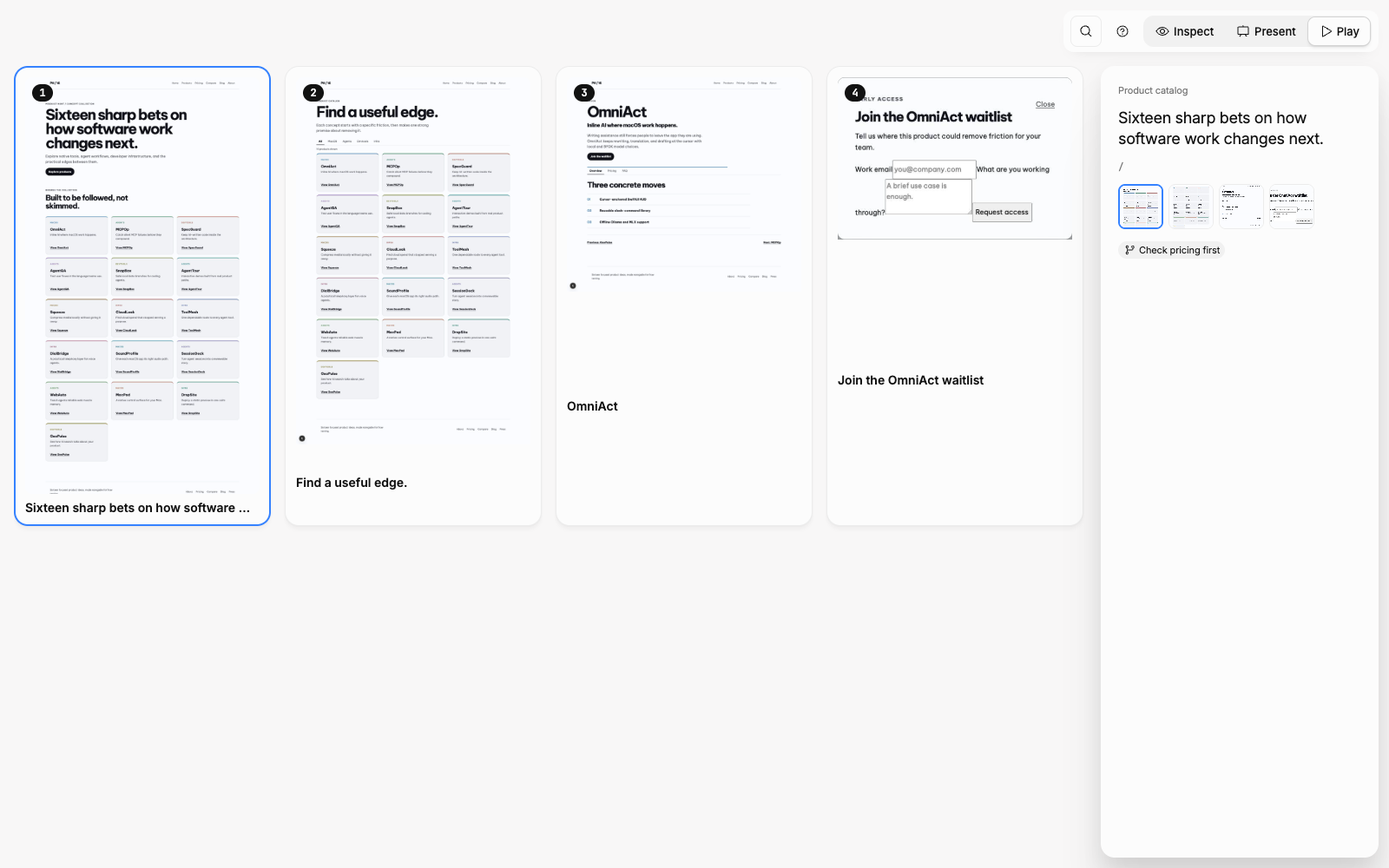
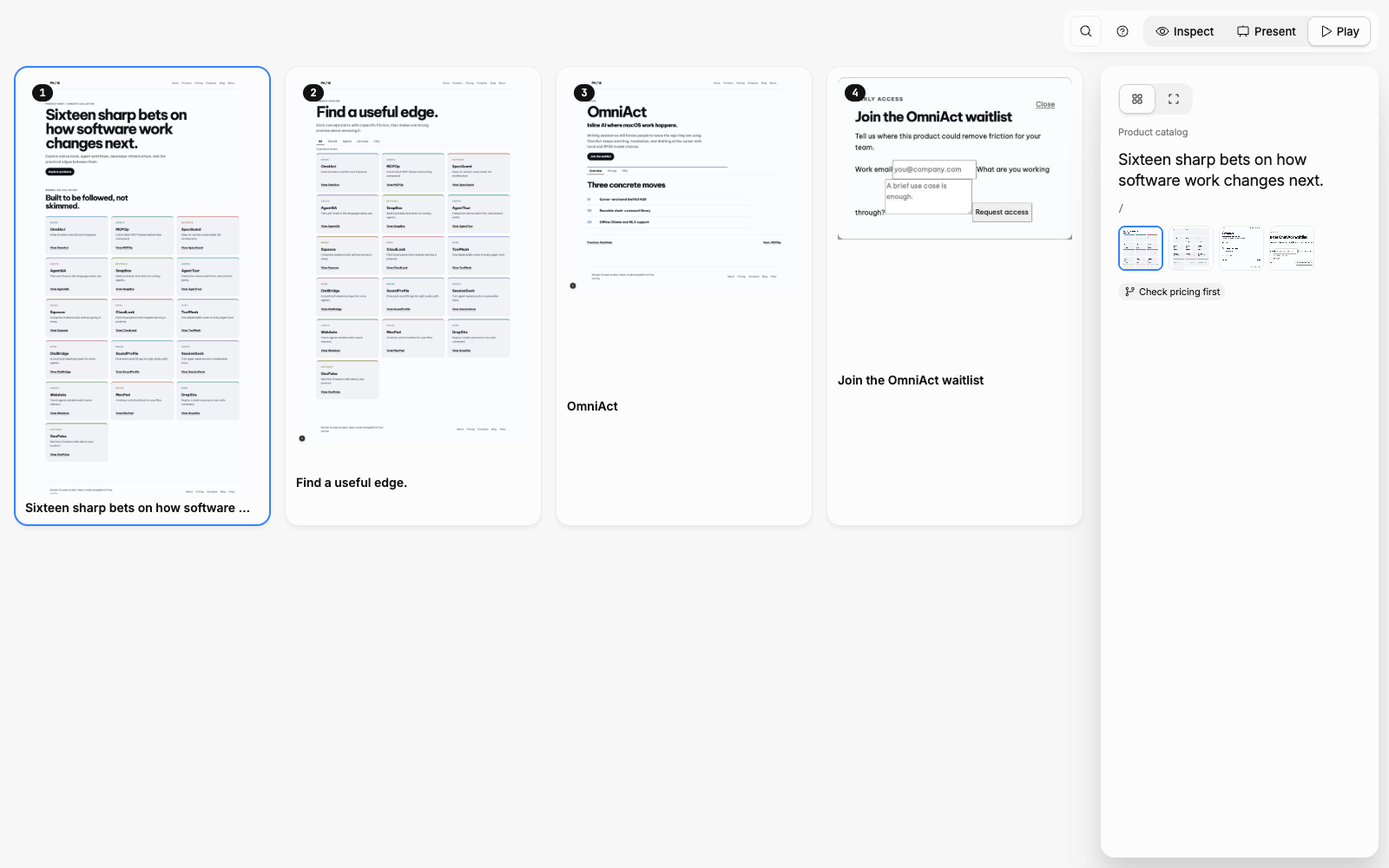
feat(viewer): Play grid and focus views, readable edge labels, Present breadcrumb
Play now has a grid of every step and a focus view (one step, prev/next
arrows, step chip, evidence panel); a click on a grid card opens focus, the
hash carries `/focus`, Escape returns to the grid. Edge pills measure their
label width, truncate with an ellipsis and step aside when they would
overlap. The breadcrumb sits at the left edge in Present and Play. Docs and
screenshots updated; version 0.3.1.

Changed region(s): [[0.8125, 0.093, 0.9375, 0.248], [0.8125, 0.248, 0.875, 0.341]]

diff --git a/test/viewer-present-browser.test.ts b/test/viewer-present-browser.test.ts
@@ -12,8 +12,8 @@ const fx = copyFixture("viewer"); const FIXTURE = fx.dir; const DATA = join(FIXT
[1 lines of base64/hex data omitted]
 /** v2 manifest: main path with `via`, one branch, an exit, and a screen the code lacks (UC-04/UC-07). */
 const MANIFEST = { version: 2, features: [{ id: "shop", title: "Shop", match: ["/", "/pricing", "/orders/**", "/docs/**"] }, { id: "account", title: "Product catalog administration", match: [] }], stories: [
-  { id: "buy", title: "Buy a plan", entry: "/", exit: ["/orders?drawer=details"], screens: ["/", "/pricing", "/checkout-ghost", "/orders?drawer=details", "/docs/[...parts]"],
-    steps: ["/", { screen: "/pricing", via: "Pricing" }, { screen: "/checkout-ghost", via: "Checkout" }, "/orders?drawer=details"],
+  { id: "buy", title: "Buy a plan", entry: "/", exit: ["/orders?drawer=details"], screens: ["/", "/pricing", "/orders?drawer=details", "/checkout-ghost", "/docs/[...parts]"],
+    steps: ["/", { screen: "/pricing", via: "Pricing" }, { screen: "/orders?drawer=details", via: "Checkout" }, "/checkout-ghost"],
     branches: [{ title: "Read the docs first", from: "/pricing", steps: [{ screen: "/docs/[...parts]", via: "Checkout" }, "/orders?drawer=details"] }] },
 ] };
 
@@ -22,8 +22,10 @@ let html: string; let viewerDir: string; let browser: Awaited<ReturnType<typeof 
 beforeAll(async () => {
   viewerDir = await buildViewer();
   await scanCommand(FIXTURE, () => {});
-  mkdirSync(join(DATA, "shots"), { recursive: true }); writeFileSync(shotFiles(join(DATA, "shots"), "/").full, JPEG);
-  writeFileSync(join(DATA, "shots-meta.json"), JSON.stringify({ "/": { url: "/", width: 1440, height: 900 } }));
+  mkdirSync(join(DATA, "shots"), { recursive: true });
+  const captured = ["/", "/orders?drawer=details"];
+  for (const id of captured) writeFileSync(shotFiles(join(DATA, "shots"), id).full, JPEG);
+  writeFileSync(join(DATA, "shots-meta.json"), JSON.stringify(Object.fromEntries(captured.map((id) => [id, { url: id, width: 1440, height: 900 }]))));
   writeFileSync(join(FIXTURE, "code2flow.stories.json"), JSON.stringify(MANIFEST));
   [html] = await exportCommand(FIXTURE, viewerDir, {}, () => {});
   browser = await launchBrowser(resolvePlaywright(FIXTURE), true);
@@ -79,7 +81,7 @@ describe("viewer in a real browser (seam: exported HTML, no network)", () => {
     expect(await text("#phud")).toContain("2 / 4"); expect(await text("#phud")).toContain("via Pricing");
   });
   it("stepping onto the missing screen and Inspect's story view never throw", async () => {
-    await open("#f/shop/s/buy/present/2");
+    await open("#f/shop/s/buy/present/3");
     expect(await text("#phud")).toContain("Missing screen");
     await page.keyboard.press("ArrowRight"); await page.waitForTimeout(200); expect(await text("#phud")).toContain("4 / 4");
     await open("#f/shop/s/buy");
@@ -94,20 +96,37 @@ describe("viewer in a real browser (seam: exported HTML, no network)", () => {
     await open("#f/shop/s/buy/play/0");
     expect(await page.evaluate<boolean>(`document.querySelector('#phud').hidden`)).toBe(true);
   });
-  it("play mode renders every step as a gallery card and card three becomes current", async () => {
+  it("Play grid card three opens Focus, advances, and returns to its current grid card", async () => {
     await open("#f/shop/s/buy/play/0");
     expect(await count("#player .player-card")).toBe(4);
     expect(await count("#player .player-card .player-step-chip")).toBe(4);
     expect(await page.evaluate<{ columns: string; x: string; y: string }>(`(() => { const style = getComputedStyle(document.querySelector('.player-gallery')); return { columns: style.gridTemplateColumns, x: style.overflowX, y: style.overflowY }; })()`)).toEqual(expect.objectContaining({ x: "hidden", y: "auto" }));
-    await page.evaluate<void>(`[...document.querySelectorAll('#player .player-card')][2].dispatchEvent(new MouseEvent('click', { bubbles: true }))`);
+    const stepThreeShot = await page.evaluate<string>(`document.querySelector('#player .player-card[data-step="2"] img')?.getAttribute('src') ?? ''`);
+    await (page as unknown as { click(selector: string): Promise<void> }).click('#player .player-card[data-step="2"]');
     await page.waitForTimeout(200);
-    expect(await page.evaluate<string>("location.hash")).toBe("#f/shop/s/buy/play/2");
-    expect(await page.evaluate<number>(`[...document.querySelectorAll('#player .player-card')].findIndex((card) => card.classList.contains('on'))`)).toBe(2);
+    expect(await page.evaluate<string>("location.hash")).toBe("#f/shop/s/buy/play/2/focus");
+    expect(await count("#player .player-focus")).toBe(1);
+    expect(await page.evaluate<string>(`document.querySelector('.player-focus img')?.getAttribute('src') ?? ''`)).toBe(stepThreeShot);
+    await page.keyboard.press("ArrowRight"); await page.waitForTimeout(200);
+    expect(await page.evaluate<string>("location.hash")).toBe("#f/shop/s/buy/play/3/focus");
+    await page.keyboard.press("Escape"); await page.waitForTimeout(200);
+    expect(await page.evaluate<string>("location.hash")).toBe("#f/shop/s/buy/play/3");
+    expect(await count("#player .player-gallery")).toBe(1);
+    expect(await page.evaluate<number>(`[...document.querySelectorAll('#player .player-card')].findIndex((card) => card.classList.contains('on'))`)).toBe(3);
+  });
+  it("loads a Focus hash directly and exposes its view control", async () => {
+    await open("#f/shop/s/buy/play/1/focus");
+    expect(await count("#player .player-focus")).toBe(1);
+    expect(await count('.player-view-seg [title="Grid view"]')).toBe(1);
+    expect(await count('.player-view-seg [title="Focus view"]')).toBe(1);
+    await (page as unknown as { click(selector: string): Promise<void> }).click('.player-view-seg [title="Grid view"]');
+    expect(await page.evaluate<string>("location.hash")).toBe("#f/shop/s/buy/play/1");
+    expect(await count("#player .player-gallery")).toBe(1);
   });
   it("removes the Play panel action row", async () => {
     await open("#f/shop/s/buy/play/0");
     expect(await count("#player .player-actions")).toBe(0);
-    await page.evaluate<void>(`[...document.querySelectorAll('#player .player-thumb')][1].dispatchEvent(new MouseEvent('click', { bubbles: true }))`);
+    await (page as unknown as { click(selector: string): Promise<void> }).click('#player .player-thumb[aria-label="Step 2"]');
     await page.waitForTimeout(200);
     expect(await page.evaluate<string>("location.hash")).toBe("#f/shop/s/buy/play/1");
   });
@@ -115,6 +134,10 @@ describe("viewer in a real browser (seam: exported HTML, no network)", () => {
     await open("#f/shop");
     expect(await count("#toolbar-left #nav-back")).toBe(0);
     expect(await count("#toolbar-left .crumb")).toBe(1);
+  });
+  it("keeps Present breadcrumbs at the left edge when the rail is hidden", async () => {
+    await open("#f/shop/s/buy/present/0");
+    expect(await page.evaluate<number>(`document.querySelector('#toolbar-left').getBoundingClientRect().x`)).toBeLessThan(24);
   });
   it("play mode advances with ArrowRight and writes its hash", async () => {
     await open("#f/shop/s/buy/play/0");
@@ -127,6 +150,18 @@ describe("viewer in a real browser (seam: exported HTML, no network)", () => {
     await (page as unknown as { click(selector: string): Promise<void> }).click(".edge-pill"); await page.waitForTimeout(300); // a real pointer click: the canvas drag handler must not swallow it
     expect(await count('#drawer.open .inspector-row')).toBeGreaterThan(0);
     expect(await page.evaluate<string>("location.hash")).toContain("sel/edge%3A");
+  });
+  it("keeps fixture edge pills separated and wide enough for their labels", async () => {
+    await open("#f/shop");
+    expect(await page.evaluate<string[]>(`(() => {
+      const pills = [...document.querySelectorAll('.edge-pill')];
+      const intersects = (a, b) => a.left < b.right && b.left < a.right && a.top < b.bottom && b.top < a.bottom;
+      return pills.flatMap((pill, index) => {
+        const box = pill.getBoundingClientRect(); const rect = pill.querySelector('rect')?.getBoundingClientRect(); const label = pill.querySelector('text')?.getBoundingClientRect();
+        const overlaps = pills.slice(index + 1).filter((other) => intersects(box, other.getBoundingClientRect())).map((other) => other.getAttribute('aria-label'));
+        return [...overlaps, ...(rect && label && rect.width >= label.width + 12 ? [] : ['clipped:' + pill.getAttribute('aria-label')])];
+      });
+    })()`)).toEqual([]);
   });
   it("removes the HUD and delegates keyboard zoom and fit after a hash redraw", async () => {
     await open("#f/shop");
@@ -169,6 +204,6 @@ describe("viewer in a real browser (seam: exported HTML, no network)", () => {
     expect(viewer.match(/(?:textContent|innerHTML)\s*=\s*["'](?:Kind|File|URL|Out|In|Sidebar|states|stories|flows|missing)["']/gi) ?? []).toEqual([]);
     await open("#f/shop");
     const counts = await page.evaluate<{ icons: number; titles: number }>(`(() => { const icons = [...document.querySelectorAll('svg')].filter((svg) => [...svg.children].some((child) => child.localName === 'title')); return { icons: icons.length, titles: document.querySelectorAll('svg > title').length }; })()`);
-    expect(counts).toEqual({ icons: 43, titles: 43 });
+    expect(counts).toEqual({ icons: 45, titles: 45 });
   });
 });

diff --git a/src/viewer/story-player.ts b/src/viewer/story-player.ts
@@ -1,8 +1,9 @@
 import { byId, D, realTitle, routeTitle, storyPath } from "./data-model.js";
 import { renderPlayerPanel } from "./story-player-panel.js";
+import { iconHtml } from "./icons.js";
 import type { Story } from "./types.js";
 
-export interface PlayerHandlers { step: (index: number) => void }
+export interface PlayerHandlers { step: (index: number) => void; openFocus: (index: number) => void; view: (focus: boolean) => void }
 
 function screenshotImage(src: string, alt: string): HTMLImageElement {
   const image = document.createElement("img"); image.src = src; image.alt = alt;
@@ -12,20 +13,30 @@ function screenshotImage(src: string, alt: string): HTMLImageElement {
 
 const titleFor = (id: string): string => { const screen = byId.get(id); return !screen ? "Missing screen" : screen.kind === "route" ? routeTitle(screen.id) : realTitle(screen.id); };
 
-/** Play mode: every story step remains visible in story order; one card owns the current hash step. */
-export function renderStoryPlayer(host: HTMLElement, story: Story | undefined, index: number, h: PlayerHandlers): void {
+/** Play mode: grid shows every step; Focus displays the current screenshot with the existing step seam. */
+export function renderStoryPlayer(host: HTMLElement, story: Story | undefined, index: number, focus: boolean, h: PlayerHandlers): void {
   host.replaceChildren(); host.hidden = !story; if (!story) return;
   const path = storyPath(story); const current = Math.min(Math.max(0, index), Math.max(0, path.length - 1));
-  const stage = document.createElement("section"); stage.className = "player-stage player-gallery"; stage.setAttribute("aria-label", "Story steps");
+  const stage = document.createElement("section"); stage.className = focus ? "player-stage player-focus" : "player-stage player-gallery"; stage.setAttribute("aria-label", focus ? "Focused story step" : "Story steps");
+  const srcFor = (id: string): string | null => { const screen = byId.get(id); return screen ? (screen.kind === "route" ? D.shotUrl(screen.id) : D.dialogUrl(screen.id) ?? D.shotUrl(screen.id)) : null; };
+  if (focus) {
+    const step = path[current]; const src = srcFor(step.screen); const shot = document.createElement("div"); shot.className = "player-focus-shot";
+    if (src) shot.append(screenshotImage(src, `Screenshot ${step.screen}`)); else { const missing = document.createElement("span"); missing.className = "player-missing"; missing.textContent = `MISSING SCREEN · ${step.screen}`; shot.append(missing); }
+    const chip = document.createElement("span"); chip.className = "player-focus-chip"; chip.textContent = `${current + 1} / ${path.length}`;
+    const title = document.createElement("h2"); title.className = "player-focus-title"; title.textContent = titleFor(step.screen);
+    const arrow = (direction: "prev" | "next"): HTMLButtonElement => { const next = direction === "prev" ? current - 1 : current + 1; const label = direction === "prev" ? "Previous step" : "Next step"; const button = document.createElement("button"); button.type = "button"; button.className = `player-focus-arrow ${direction}`; button.title = label; button.setAttribute("aria-label", label); button.innerHTML = iconHtml(direction === "prev" ? "caret-left" : "caret-right", label, 24); button.hidden = next < 0 || next >= path.length; button.addEventListener("click", () => h.step(next)); return button; };
+    stage.append(arrow("prev"), shot, arrow("next"), chip, title);
+  }
   path.forEach((step, stepIndex) => {
-    const screen = byId.get(step.screen); const card = document.createElement("button"); card.type = "button"; card.className = "player-card" + (stepIndex === current ? " on" : ""); card.setAttribute("aria-label", `Step ${stepIndex + 1}: ${titleFor(step.screen)}`);
+    if (focus) return;
+    const card = document.createElement("button"); card.type = "button"; card.className = "player-card" + (stepIndex === current ? " on" : ""); card.dataset.step = String(stepIndex); card.setAttribute("aria-label", `Step ${stepIndex + 1}: ${titleFor(step.screen)}`);
     const shot = document.createElement("span"); shot.className = "player-card-shot";
-    const src = screen ? (screen.kind === "route" ? D.shotUrl(screen.id) : D.dialogUrl(screen.id) ?? D.shotUrl(screen.id)) : null;
+    const src = srcFor(step.screen);
     if (src) shot.append(screenshotImage(src, `Screenshot ${step.screen}`)); else { const missing = document.createElement("span"); missing.className = "player-missing"; missing.textContent = `MISSING SCREEN · ${step.screen}`; shot.append(missing); }
     const chip = document.createElement("span"); chip.className = "player-step-chip"; chip.textContent = String(stepIndex + 1);
     const title = document.createElement("span"); title.className = "player-card-title"; title.textContent = titleFor(step.screen);
-    card.append(chip, shot, title); card.addEventListener("click", () => h.step(stepIndex)); stage.append(card);
+    card.append(chip, shot, title); card.addEventListener("click", (event) => { event.stopPropagation(); h.openFocus(stepIndex); }); stage.append(card);
   });
   host.append(stage);
-  const panel = document.createElement("aside"); panel.className = "player-panel"; renderPlayerPanel(panel, story, current, h); host.append(panel);
+  const panel = document.createElement("aside"); panel.className = "player-panel"; renderPlayerPanel(panel, story, current, focus, h); host.append(panel);
 }

diff --git a/src/viewer/main.ts b/src/viewer/main.ts
@@ -38,7 +38,7 @@ export async function boot(loadData: () => Promise<ViewerData>): Promise<void> {
     if (state.mode === "play") {
       const stories = D.stories.filter((s) => storyFeature(s) === state.feature); const story = stories.find((s) => s.id === (state.story ?? stories[0]?.id));
       if (story) { state.story = story.id; state.step = Math.min(Math.max(0, state.step), Math.max(0, storyPath(story).length - 1)); }
-      renderStoryPlayer(player, story, state.step, { step: (index) => { state.step = index; go(); } });
+      renderStoryPlayer(player, story, state.step, state.playFocus, { step: (index) => { state.step = index; go(); }, openFocus: (index) => { state.step = index; state.playFocus = true; go(); }, view: (focus) => { state.playFocus = focus; go(); } });
       return;
     }
     player.hidden = true;
@@ -59,7 +59,7 @@ export async function boot(loadData: () => Promise<ViewerData>): Promise<void> {
   const help = document.getElementById("canvas-help")!; const helpPopover = document.getElementById("canvas-help-popover")!;
   help.innerHTML = iconHtml("question", "Legend");
   help.addEventListener("click", () => { const open = helpPopover.hidden; helpPopover.hidden = !open; help.setAttribute("aria-expanded", String(open)); if (open) helpPopover.innerHTML = `<div class="help-row"><span class="help-line high"></span>Solid · high</div><div class="help-row"><span class="help-line medium"></span>Grey · medium</div><div class="help-row"><span class="help-line low"></span>Dashed · review</div><div class="help-row">${iconHtml("link-break", "Broken target")}Broken target</div><div class="help-row">${iconHtml("sidebar-simple", "Shell target")}Shell target</div><div class="help-row">${iconHtml("arrow-u-up-left", "Return action")}Return action</div><div class="help-row">${iconHtml("keyboard", "Keyboard shortcuts")}Arrows · + · − · F</div>`; });
-  document.querySelectorAll<HTMLButtonElement>("#modeSeg button").forEach((b) => b.addEventListener("click", () => { state.mode = b.dataset.mode as "inspect" | "present" | "play"; if (state.level === "map") { state.level = "feature"; state.feature = state.feature ?? [...D.features].sort((a, c) => a.order - c.order)[0]?.id ?? null; } go(); if (state.mode === "inspect" && state.selected) showDrawer(state.selected, select, openLightbox); }));
+  document.querySelectorAll<HTMLButtonElement>("#modeSeg button").forEach((b) => b.addEventListener("click", () => { state.mode = b.dataset.mode as "inspect" | "present" | "play"; state.playFocus = false; if (state.level === "map") { state.level = "feature"; state.feature = state.feature ?? [...D.features].sort((a, c) => a.order - c.order)[0]?.id ?? null; } go(); if (state.mode === "inspect" && state.selected) showDrawer(state.selected, select, openLightbox); }));
   document.getElementById("lightbox")!.addEventListener("click", (ev) => { if (!(ev.target as Element).closest(".scroller")) document.getElementById("lightbox")!.hidden = true; });
   stage.addEventListener("click", () => { if (state.mode !== "present" && state.selected) { state.selected = null; closeDrawer(); render(); } });
   window.addEventListener("popstate", () => { if (!applyingHash && applyHash()) { render(); if (state.selected) showDrawer(state.selected, select, openLightbox); } });
@@ -73,7 +73,7 @@ export async function boot(loadData: () => Promise<ViewerData>): Promise<void> {
     if ((ev.key === "]" || ev.key === "[") && state.level === "feature" && fs.length) { const i = Math.max(0, fs.findIndex((s) => s.id === state.story)); const j = ev.key === "]" ? (i + 1) % fs.length : (i - 1 + fs.length) % fs.length; nav.setStory(fs[j].id); return; }
     if (state.level === "feature" && (state.mode === "present" || state.mode === "play") && st) { if (ev.key === "ArrowRight" || ev.key === "PageDown") { state.story = st.id; state.step = Math.min(storyPath(st).length - 1, state.step + 1); go(); ev.preventDefault(); } if (ev.key === "ArrowLeft" || ev.key === "PageUp") { state.story = st.id; state.step = Math.max(0, state.step - 1); go(); ev.preventDefault(); } }
     if ((ev.key === "p" || ev.key === "P") && state.level === "feature") { state.mode = "present"; go(); }
-    if (ev.key === "Escape") { document.getElementById("lightbox")!.hidden = true; if (palette.isOpen()) { palette.close(); return; } if (state.mode === "play") { state.mode = "present"; go(); } else if (state.mode === "present") { state.mode = "inspect"; go(); } else if (state.selected) { state.selected = null; closeDrawer(); render(); } else if (state.story) { state.story = null; go(); } else if (state.level === "feature") { state.level = "map"; go(); } }
+    if (ev.key === "Escape") { document.getElementById("lightbox")!.hidden = true; if (palette.isOpen()) { palette.close(); return; } if (state.mode === "play" && state.playFocus) { state.playFocus = false; go(); } else if (state.mode === "play") { state.mode = "present"; go(); } else if (state.mode === "present") { state.mode = "inspect"; go(); } else if (state.selected) { state.selected = null; closeDrawer(); render(); } else if (state.story) { state.story = null; go(); } else if (state.level === "feature") { state.level = "map"; go(); } }
     if (ev.shiftKey && ev.key === "!") canvas.fit();
   });
   if (location.hash && location.hash !== "#map" && applyHash()) { render(); if (state.selected) showDrawer(state.selected, select, openLightbox); } else render();

diff --git a/src/viewer/story-player-panel.ts b/src/viewer/story-player-panel.ts
@@ -3,13 +3,15 @@ import { byId, D, featById, realTitle, routeOf, routeTitle, storyFeature, storyP
 import type { Story } from "./types.js";
 import { iconHtml } from "./icons.js";
 
-export interface PlayerPanelHandlers { step: (index: number) => void }
+export interface PlayerPanelHandlers { step: (index: number) => void; view: (focus: boolean) => void }
 
 const evidenceFor = (story: Story, id: string): ActionEdge | undefined => D.graph.edges.filter((edge) => edge.scope === "screen" && edge.target === id && story.screens.includes(edge.source)).sort((a, b) => ({ high: 3, medium: 2, low: 1 }[b.confidence] - { high: 3, medium: 2, low: 1 }[a.confidence]))[0];
 
 /** Right-side evidence panel for a walkthrough step. */
-export function renderPlayerPanel(panel: HTMLElement, story: Story, index: number, h: PlayerPanelHandlers): void {
+export function renderPlayerPanel(panel: HTMLElement, story: Story, index: number, focus: boolean, h: PlayerPanelHandlers): void {
   panel.replaceChildren(); const path = storyPath(story); const step = path[index]; if (!step) return;
+  const viewSeg = document.createElement("div"); viewSeg.className = "player-view-seg seg";
+  ([{ focus: false, icon: "squares-four" as const, title: "Grid view" }, { focus: true, icon: "corners-out" as const, title: "Focus view" }]).forEach((item) => { const button = document.createElement("button"); button.type = "button"; button.title = item.title; button.setAttribute("aria-label", item.title); button.classList.toggle("on", focus === item.focus); button.innerHTML = iconHtml(item.icon, item.title); button.addEventListener("click", () => h.view(item.focus)); viewSeg.append(button); }); panel.append(viewSeg);
   const screen = byId.get(step.screen); const edge = evidenceFor(story, step.screen); const title = screen ? (screen.kind === "route" ? routeTitle(screen.id) : realTitle(screen.id)) : "Missing screen";
   const add = (tag: string, className: string, value: string): void => { const el = document.createElement(tag); el.className = className; el.textContent = value; panel.append(el); };
   add("p", "player-eyebrow-label", featById[storyFeature(story)]?.title ?? "Feature"); add("h2", "player-title", title); add("p", "player-route-meta mono", routeOf(step.screen) ?? step.screen);
@@ -19,7 +21,7 @@ export function renderPlayerPanel(panel: HTMLElement, story: Story, index: numbe
   const thumbs = document.createElement("div"); thumbs.className = "player-thumbs"; thumbs.setAttribute("aria-label", "Story steps");
   path.forEach((item, itemIndex) => { const s = byId.get(item.screen); const b = document.createElement("button"); b.type = "button"; b.className = "player-thumb player-thumb-badge" + (itemIndex === index ? " on" : ""); b.setAttribute("aria-label", `Step ${itemIndex + 1}`); const src = s ? (s.kind === "route" ? D.shotUrl(s.id) : D.dialogUrl(s.id) ?? D.shotUrl(s.id)) : null;
     if (src) { const image = document.createElement("img"); image.src = src; image.alt = ""; image.onerror = () => { image.hidden = true; const fallback = document.createElement("span"); fallback.className = "player-image-fallback"; fallback.textContent = "Screenshot unavailable"; image.after(fallback); }; b.append(image); } else b.textContent = "Not in code";
-    b.addEventListener("click", () => h.step(itemIndex)); thumbs.append(b); }); panel.append(thumbs);
+    b.addEventListener("click", (event) => { event.stopPropagation(); h.step(itemIndex); }); thumbs.append(b); }); panel.append(thumbs);
   if (story.branches?.length) { const branches = document.createElement("div"); branches.className = "player-branches"; story.branches.forEach((branch) => { const pill = document.createElement("span"); pill.className = "player-branch-badge"; pill.innerHTML = `${iconHtml("git-branch", "Branch", 14)}<span>${branch.title}</span>`; branches.append(pill); }); panel.append(branches); }
   if (!screen || !edge && index > 0) { const warning = document.createElement("p"); warning.className = "player-warning-label"; warning.innerHTML = `${iconHtml("link-break", "Not in code", 16)}<span>Not in code</span>`; panel.append(warning); }
 }

diff --git a/src/viewer/navigation.ts b/src/viewer/navigation.ts
@@ -48,14 +48,16 @@ export function renderCrumb(h: NavHandlers): void {
 export function hashOf(): string {
   if (state.level === "map") return "#map";
   const p = ["#f", state.feature]; if (state.story) p.push("s", state.story); if (state.mode === "present" || state.mode === "play") p.push(state.mode, String(state.step));
+  if (state.mode === "play" && state.playFocus) p.push("focus");
   if (state.selected) p.push("sel", encodeURIComponent("edges" in state.selected ? `edge:${state.selected.source}>${state.selected.target}` : state.selected.id));
   return p.join("/");
 }
 export function applyHash(): boolean {
   const h = location.hash.slice(1); if (!h || h === "map") { state.level = "map"; state.selected = null; return true; }
   const p = h.split("/"); if (p[0] !== "f" || !featById[p[1]]) return false;
-  state.level = "feature"; state.feature = p[1]; state.story = null; state.mode = "inspect"; state.step = 0; state.selected = null;
+  state.level = "feature"; state.feature = p[1]; state.story = null; state.mode = "inspect"; state.step = 0; state.playFocus = false; state.selected = null;
   for (let i = 2; i < p.length; i += 2) { if (p[i] === "s") state.story = p[i + 1]; if (p[i] === "present" || p[i] === "play") { state.mode = p[i] === "play" ? "play" : "present"; state.step = +p[i + 1] || 0; } if (p[i] === "sel") { const selected = decodeURIComponent(p[i + 1]); const s = byId.get(selected); if (s) state.selected = s; else if (selected.startsWith("edge:")) { const [source, target] = selected.slice(5).split(">"); const edges = D.graph.edges.filter((edge) => edge.source === source && edge.target === target); if (edges.length) state.selected = { source, target, edges, primary: edges[0], confidence: edges[0].confidence, missing: false } satisfies Bundle; } } }
+  state.playFocus = state.mode === "play" && p.at(-1) === "focus";
   return true;
 }
 

diff --git a/src/viewer/edges-draw.ts b/src/viewer/edges-draw.ts
@@ -1,5 +1,5 @@
 import { el, FH, uiScale } from "./svg.js";
-import { state } from "./data-model.js";
+import { fitText, state, textW } from "./data-model.js";
 import { iconSvg } from "./icons.js";
 import type { Bundle } from "./types.js";
 
@@ -20,9 +20,11 @@ export function drawBundle(g: SVGGElement, b: Bundle, pos: Record<string, Pos>, 
 }
 
 export function pill(g: SVGGElement, mx: number, my: number, b: Bundle, onSelect?: (bundle: Bundle) => void): void {
-  const trigger = b.primary.trigger.length > 24 ? b.primary.trigger.slice(0, 23) + "…" : b.primary.trigger;
+  const trigger = fitText(b.primary.trigger, 150, 7);
   const label = `${trigger} ${b.edges.length}`; const title = `${b.primary.trigger} · ${b.edges.length} links`;
-  const warn = b.confidence === "low"; const w = label.length * 6 + (warn ? 30 : 16); const pg = uiScale("ui-scale center edge-pill", mx - w / 2, my - 10);
+  const warn = b.confidence === "low"; const w = textW(label, 7) + (warn ? 30 : 16); let y = my;
+  while ([...g.querySelectorAll<SVGGElement>(".edge-pill")].some((pill) => Math.abs(Number(pill.dataset.pillY) - y) < 24)) y += 24;
+  const pg = uiScale("ui-scale center edge-pill", mx - w / 2, y - 10); pg.dataset.pillY = String(y);
   pg.setAttribute("tabindex", "0"); pg.setAttribute("role", "button"); pg.setAttribute("aria-label", title); pg.setAttribute("title", title);
   pg.append(el("rect", { x: 0, y: 0, width: w, height: 20, class: "pill-bg " + b.confidence })); if (warn) pg.append(iconSvg("warning", "Review confidence", 5, 4, 12)); pg.append(el("text", { x: warn ? 21 : w / 2, y: 14, "text-anchor": warn ? "start" : "middle", class: "pill" }, label));
   const select = (event: Event): void => { event.stopPropagation(); onSelect?.(b); };

diff --git a/src/viewer/theme.css b/src/viewer/theme.css
@@ -100,6 +100,10 @@ header h1 {
 #toolbar-left {
   left: 272px;
 }
+body.presenting #toolbar-left,
+body.playing #toolbar-left {
+  left: 12px;
+}
 #toolbar-right {
   right: 12px;
 }
@@ -925,6 +929,62 @@ body.playing #svg {
   overflow-y: auto;
   padding: 0 4px 24px 0;
 }
+.player-focus {
+  position: absolute;
+  inset: 76px 348px 20px 16px;
+  display: grid;
+  place-items: center;
+}
+.player-focus-shot {
+  max-height: calc(100vh - 140px);
+  max-width: 100%;
+  overflow-y: auto;
+  border-radius: 12px;
+  background: var(--well);
+}
+.player-focus-shot img {
+  display: block;
+  max-width: 100%;
+  height: auto;
+}
+.player-focus-chip,
+.player-focus-title {
+  position: absolute;
+  left: 50%;
+  transform: translateX(-50%);
+  margin: 0;
+}
+.player-focus-chip {
+  bottom: 40px;
+  padding: 2px 8px;
+  border-radius: 999px;
+  background: var(--text);
+  color: var(--surface);
+  font: 500 12px/16px "JetBrains Mono", Menlo, monospace;
+}
+.player-focus-title {
+  bottom: 12px;
+  color: var(--text);
+  font-size: 16px;
+  line-height: 20px;
+  white-space: nowrap;
+}
+.player-focus-arrow {
+  position: absolute;
+  z-index: 1;
+  top: 50%;
+  width: 40px;
+  height: 40px;
+  padding: 8px;
+  border: 1px solid var(--stroke);
+  border-radius: 999px;
+  background: var(--surface);
+  color: var(--text);
+  cursor: pointer;
+  transform: translateY(-50%);
+}
+.player-focus-arrow.prev { left: 12px; }
+.player-focus-arrow.next { right: 12px; }
 .player-card {
   position: relative;
   display: grid;
@@ -992,6 +1052,9 @@ body.playing #svg {
   border-radius: 16px;
   background: var(--surface);
   box-shadow: var(--popover);
+}
+.player-view-seg {
+  justify-self: start;
 }
 .player-eyebrow,
 .player-route,

diff --git a/src/viewer/canvas.ts b/src/viewer/canvas.ts
@@ -2,7 +2,7 @@
 export class Canvas {
   tx = 0; ty = 0; k = 1; private drag: { x: number; y: number } | null = null;
   constructor(readonly stage: HTMLElement, readonly view: SVGGElement) {
-    stage.addEventListener("pointerdown", (ev) => { if ((ev.target as Element).closest(".frame,.hit,.toolbar,.card,.stub,.tile,text,.presenter-hud,.edge-pill")) return; this.drag = { x: ev.clientX - this.tx, y: ev.clientY - this.ty }; stage.classList.add("dragging"); stage.setPointerCapture(ev.pointerId); });
+    stage.addEventListener("pointerdown", (ev) => { if ((ev.target as Element).closest(".frame,.hit,.toolbar,.card,.stub,.tile,text,.presenter-hud,.edge-pill,.player-card,.player-thumb,.player-focus-arrow,.player-view-seg")) return; this.drag = { x: ev.clientX - this.tx, y: ev.clientY - this.ty }; stage.classList.add("dragging"); stage.setPointerCapture(ev.pointerId); });
     stage.addEventListener("pointermove", (ev) => { if (!this.drag) return; this.tx = ev.clientX - this.drag.x; this.ty = ev.clientY - this.drag.y; this.apply(); });
     stage.addEventListener("pointerup", () => { this.drag = null; stage.classList.remove("dragging"); });
     stage.addEventListener("wheel", (ev) => { ev.preventDefault(); const r = stage.getBoundingClientRect(); const px = ev.clientX - r.left, py = ev.clientY - r.top; if (ev.ctrlKey || ev.metaKey) this.zoomAt(px, py, Math.exp(-ev.deltaY * 0.01)); else { this.tx -= ev.deltaX; this.ty -= ev.deltaY; this.apply(); } }, { passive: false });

diff --git a/src/viewer/data-model.ts b/src/viewer/data-model.ts
@@ -13,7 +13,7 @@ export let states: ScreenNode[] = [];
 export const shellTargets = new Set<string>();
 export const featById: Record<string, Feature> = {};
 
-export const state: ViewState = { level: "map", feature: null, story: null, mode: "inspect", selected: null, step: 0, showDismiss: false, showTray: false };
+export const state: ViewState = { level: "map", feature: null, story: null, mode: "inspect", selected: null, step: 0, playFocus: false, showDismiss: false, showTray: false };
 
 export function initData(data: ViewerData): void {
   D = data;

diff --git a/src/viewer/types.ts b/src/viewer/types.ts
@@ -35,6 +35,7 @@ export interface ViewState {
   mode: "inspect" | "present" | "play";
   selected: Selection;
   step: number;
+  playFocus: boolean;
   showDismiss: boolean;
   showTray: boolean;
 }

diff --git a/docs/user-guide.md b/docs/user-guide.md
@@ -107,11 +107,15 @@ Choose **Present** to show one canvas lane at a time. Both sidebars are hidden s
 
 ### Play every step
 
-Choose **Play** to see a gallery of every step in the selected story. Select a gallery card or use the arrow keys to move between captures.
+Choose **Play** to see a grid of every step in the selected story. Click a card to open Focus view: one step at a time with prev/next arrows, a `3 / 4` chip and the Play panel evidence beside it. Arrow keys move between steps in both views; `Escape` returns from Focus to the grid. The two buttons at the top of the Play panel switch views.
 
 ![Play gallery](assets/play-gallery.png)
 
 *Caption: Play mode puts every story step in a selectable capture gallery.*
+
+![Play focus](assets/play-focus.png)
+
+*Caption: Focus view shows one step with its evidence; click a grid card to enter it.*
 
 ### Read State Screens and zoom
 

diff --git a/README.md b/README.md
@@ -45,9 +45,11 @@ Start with the **[user guide](docs/user-guide.md)** — install to hand-outs, st
 
 ![Present lane](https://raw.githubusercontent.com/jangtrinh/design-os-code2flow/main/docs/assets/present-lane.png)
 
-**Play every step as a gallery.** All screenshots of a story in order; click any card to make it current.
+**Play every step.** Grid view shows every screenshot of a story in order; click a card for Focus view, one step at a time with the evidence beside it.
 
 ![Play gallery](https://raw.githubusercontent.com/jangtrinh/design-os-code2flow/main/docs/assets/play-gallery.png)
+
+![Play focus](https://raw.githubusercontent.com/jangtrinh/design-os-code2flow/main/docs/assets/play-focus.png)
 
 **Keep the legend close.** The left rail holds features, stories and the arrow legend; every canvas icon explains itself on hover.
 
